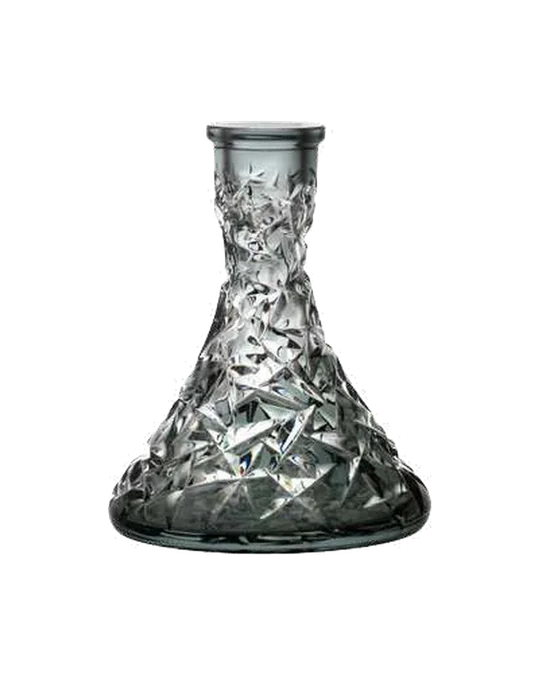
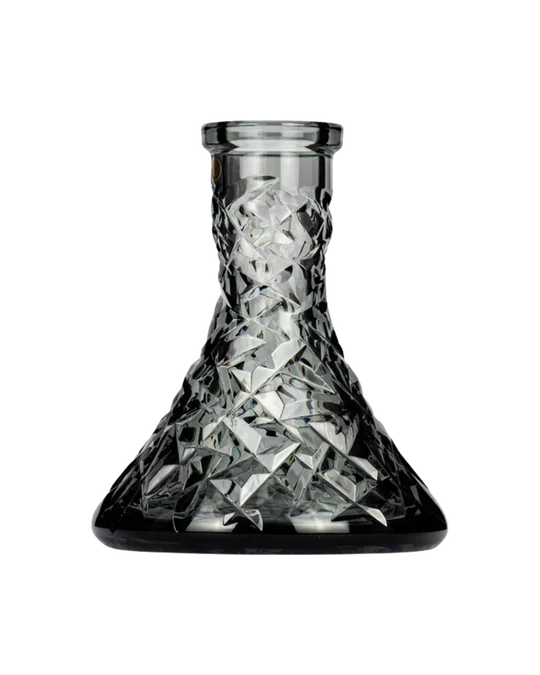
Web sweep batch 2: Ace Ice Hose and Crystal Drip base get Ace's own high-res shots
Both were flagged too low-res (enlarged 3.41x and 1.80x from the catalogue PDF); shishazone.ca hosts Ace's own 1280 px
shots of the same pieces (same five handle colours in order; same shard-cut cone darkening to black). Framed like
photos_acc.py, now 0.47x with a 1440 -l. photos_acc.py keeps a photo listed in suppliers/ace-acc/web-photos.json on a
rebuild (photos.web_kept / apply_web, as photos.py does for Ace), and catalog.py carries its page into
facts_known.photo_src for accessories. Rebuilt with the PDF: only these two photos and their manifest/master entries
changed. Live SQL web-sweep-2026-11-27.sql now covers 9 rows (2 accessories: img_lw 1440, photo_label off, photo_src);
proven twice-safe with clean rollback on a copy of the 2026-11-27 backup.

Claude-Session: https://claude.ai/code/session_01E9pd4ZHmcwx6MYD1V7M6Jz

Changed region(s): [[0.1481, 0.1556, 0.8296, 0.84]]

diff --git a/store/tools/catalog/photos_acc.py b/store/tools/catalog/photos_acc.py
@@ -3,7 +3,8 @@
   python store/tools/catalog/photos_acc.py [--pdf PATH] [--work DIR] [--publish]
 
 One photo per ticked page: the page's cut-out with its own soft mask (no background removal, no AI upscaling here; a
-kept upscale in suppliers/ace-acc/upscaled.json stays as it is, see photos.upscaled_kept). A group
+kept upscale in suppliers/ace-acc/upscaled.json stays as it is, see photos.upscaled_kept; so does a web photo in
+suppliers/ace-acc/web-photos.json, see photos.web_kept). A group
 shot (rope bowls, D-61, silicone and ice cream bowls, brushes, connectors) stays one photo of the group. Loose specks under
 1% of the mask (a stray watermark, a fleck) are left out. Framed at 720x900 (product 810 px tall, 45 px foot, centred;
 -m and -s), status by enlargement: ready up to 1.25x, CHECK past it, needs_original past 2x (both go up labelled
@@ -71,6 +72,7 @@ def run(pdf: Path, work: Path, publish: bool):
     framed.mkdir(parents=True, exist_ok=True)
     images = []
     kept = P.upscaled_kept("ace-acc", PUBLIC, pdf)
+    web = P.web_kept("ace-acc", PUBLIC)   # sharper web photos of the same piece (suppliers/ace-acc/web-photos.json, owner 2026-11-27)
     for r in pages:
         fid = f"acc-p{r['page']}"
         ph = r["photo"]
@@ -109,6 +111,7 @@ def run(pdf: Path, work: Path, publish: bool):
               "crop": list(bb), "scale": round(s, 3), "status": status, "out": f"acc/{fid}", "note": note,
               "tmp": str(tmp), "file": str(tmp) + "-s.webp"}
         P.apply_upscaled(it, kept)
+        P.apply_web(it, web)
         images.append(it)
     if publish:
         PUBLIC.mkdir(parents=True, exist_ok=True)
@@ -116,8 +119,8 @@ def run(pdf: Path, work: Path, publish: bool):
         for im in images:
             if not im.get("tmp"):
                 continue
-            if im.get("upscaled"):   # its upscaled files (with the 1440 -l) stay exactly as they are
-                want.update(im["upscaled"])
+            if im.get("upscaled") or im.get("web"):   # its upscaled or web files (with the 1440 -l) stay exactly as they are
+                want.update(im.get("upscaled") or im["web"])
                 continue
             for suf, _, _ in P.SIZES:
                 src = Path(im["tmp"] + suf + ".webp")
@@ -132,7 +135,8 @@ def run(pdf: Path, work: Path, publish: bool):
                 "frame": {"w": P.W, "h": P.H, "product_h": P.PROD_H, "foot": P.FOOT, "max_w": P.MAXW, "resample": "Lanczos",
                           "webp_method": 4, "check_above_scale": P.CHECK_SCALE, "hold_above_scale": P.HOLD_SCALE, "ai_upscaling": False},
                 "published_dir": "store/public/img/pc/acc",
-                "images": [{k: im.get(k) for k in ("page", "family_id", "xref", "src_px", "crop", "scale", "status", "out", "note")} for im in images]}
+                "images": [{k: im.get(k) for k in ("page", "family_id", "xref", "src_px", "crop", "scale", "status", "out", "note")}
+                           | ({"photo_src": im["photo_src"]} if im.get("photo_src") else {}) for im in images]}
     C.write_json(C.SUPPLIERS / "ace-acc" / "photos.json", manifest)
     pal_bg, pal = P.tokens()
     pal["coal"] = pal_bg["coal"]

diff --git a/store/tools/catalog/catalog.py b/store/tools/catalog/catalog.py
@@ -126,7 +126,8 @@ def build_acc(reg, pdf: Path, photos_manifest, day):
         ok = ph and ph.get("status") in USABLE_PHOTO and ph.get("out")
         f["variants"] = [{"sku": C.sku_for(reg, "ace-acc", key, day), "key": key,
                           "photo": {"img": ph["out"] if ok else None, "status": ph["status"] if ph else "none",
-                                    "src": "photo manifest store/catalog/suppliers/ace-acc/photos.json" if ok else None},
+                                    "src": "photo manifest store/catalog/suppliers/ace-acc/photos.json" if ok else None,
+                                    **({"web_src": ph["photo_src"]} if ok and ph.get("photo_src") else {})},
                           "shop": C.blank_shop()}]
     fams.sort(key=lambda f: (f["stamp"]["v"] == "none", f["page"]))   # ticked first, then catalogue order
     retired = C.retire_missing(reg, "ace-acc", live, day, "not in the catalogue any more")
@@ -510,6 +511,8 @@ def desired_rows(supplier: str, m):
                           "photo": "own" if st in USABLE_PHOTO and v["photo"]["img"] else "none"})
             if facts["photo"] == "own" and st in UPSCALE_PHOTO:
                 facts["photo_label"] = "upscale"
+            if facts["photo"] == "own" and v["photo"].get("web_src"):   # the page a web photo came from (owner 2026-11-27)
+                facts["photo_src"] = v["photo"]["web_src"]
             facts.pop("glass", None)
             # another maker's brand on the page: the name waits until the shop confirms the piece is genuine (hookah rule)
             name = f["withheld_name"]["v"] or f["name"]["v"]

diff --git a/store/catalog/SCHEMA.md b/store/catalog/SCHEMA.md
@@ -78,7 +78,7 @@ its row's `img_lw` must then go back to NULL. First one: OSS-110026, 2026-11-27 
 A photo replaced by a sharper photo of the same product and colour found online (owner 2026-11-27: high quality web photos
 are fair game; the brand's own product shots first) is listed in `suppliers/<supplier>/web-photos.json` (image and page URL,
 site, who owns the image, source and product size, the Ace cut it stands for, sha256 of each published file): photos.py
-keeps its files and gives it the status recorded there (`ready`, or `CHECK` when even the web original is enlarged past
+(photos_acc.py for the accessories, from 2026-11-27) keeps its files and gives it the status recorded there (`ready`, or `CHECK` when even the web original is enlarged past
 1.25x). The page URL goes to `photo.web_src` in the master and `facts_known.photo_src` in the row, so any photo can be swapped
 later. First batch: 13 Ace photos, 2026-11-27 (`catalog/live/web-photos-2026-11-27.sql`).
 The shop rows without a supplier photo pipeline (charcoal, foil, shisha: `OSS-9NNN`) record a web photo the same way in
